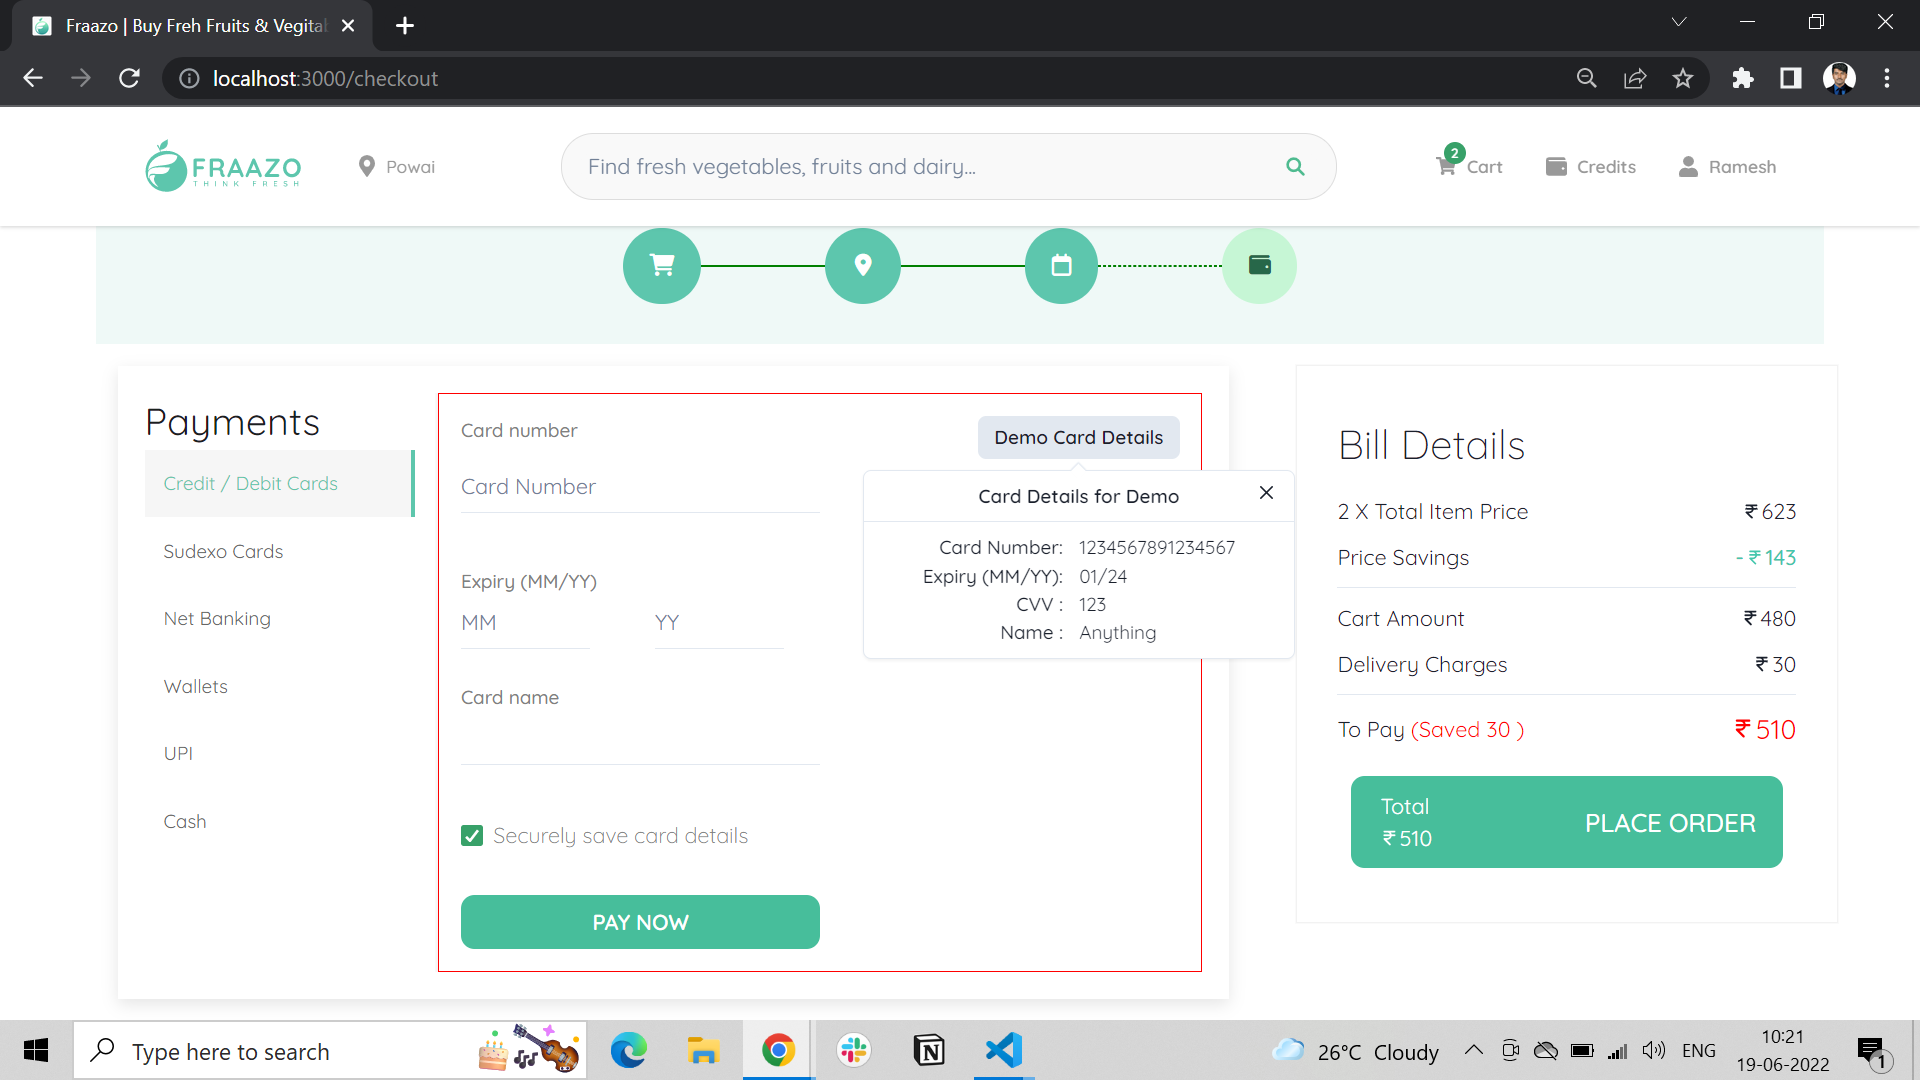
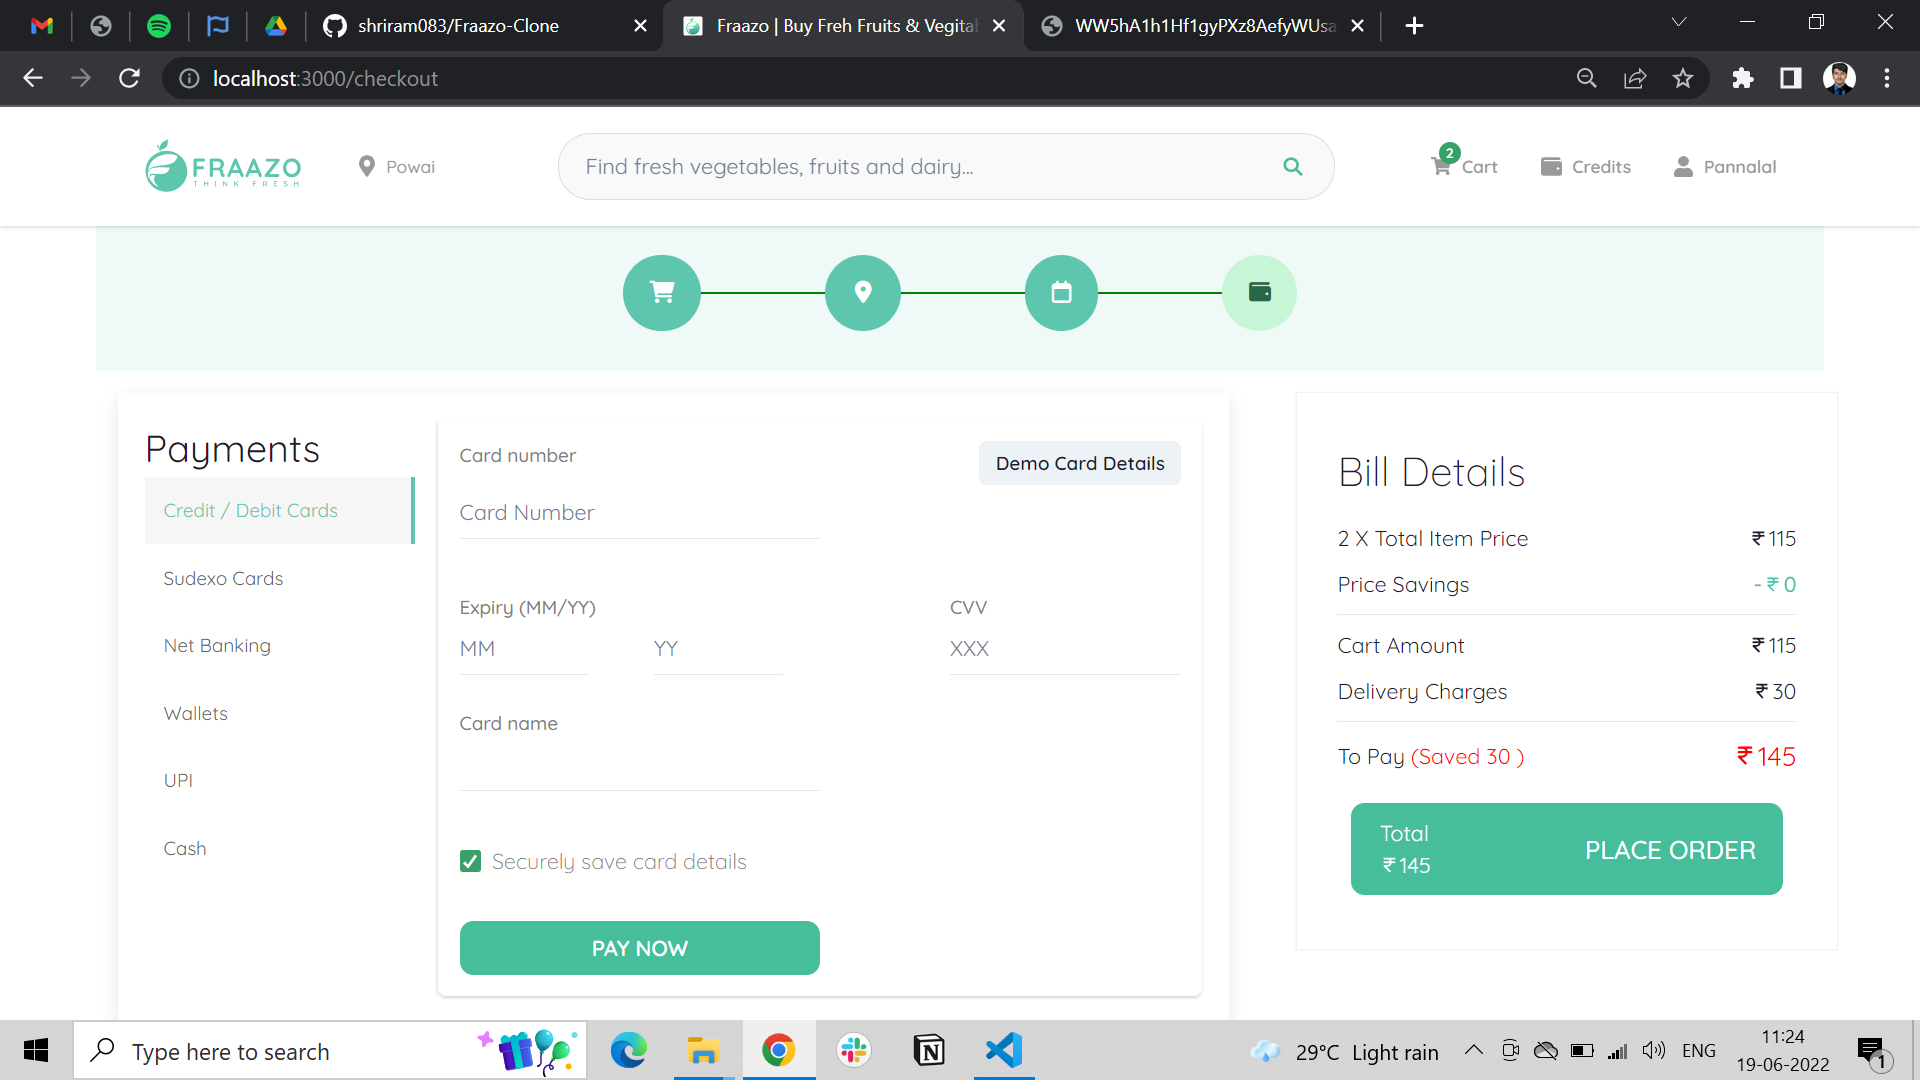
final commit

diff --git a/src/components/Payment.jsx b/src/components/Payment.jsx
@@ -53,7 +53,7 @@ const Payment = () => {
   const [cardPaymentDetails, setCardPaymentDetails] = useState(initState);
   const toast = useToast();
   //////// HANDLING ON CHANGE
-const navigate = useNavigate();
+  const navigate = useNavigate();
   const handleOnChange = (e) => {
     let { name, value } = e.target;
     //  console.log("card", name, value, name.length);
@@ -241,7 +241,7 @@ const navigate = useNavigate();
             </Tab>
           </TabList>
           <TabPanels>
-            <TabPanel width="100%" border="1px solid red">
+            <TabPanel width="100%" boxShadow={"base"} rounded="md">
               <div mb="25px">
                 <Flex justifyContent={"space-between"}>
                   <p
@@ -418,7 +418,7 @@ const navigate = useNavigate();
                 PAY NOW
               </Button>
             </TabPanel>
-            <TabPanel width="100%" border="1px solid red">
+            <TabPanel width="100%" boxShadow={"base"} rounded="md">
               <img
                 width="85rem"
                 height="30rem"
@@ -437,7 +437,7 @@ const navigate = useNavigate();
                 PAY NOW
               </Button>
             </TabPanel>
-            <TabPanel width="100%" border="1px solid red">
+            <TabPanel width="100%" boxShadow={"base"} rounded="md">
               <Select
                 style={{ border: "1px solid #5DC6AC" }}
                 placeholder="Select bank"
@@ -458,7 +458,7 @@ const navigate = useNavigate();
                 PAY NOW
               </Button>
             </TabPanel>
-            <TabPanel width="100%" border="1px solid red">
+            <TabPanel width="100%" boxShadow={"base"} rounded="md">
               <div
                 style={{
                   display: "grid",
@@ -619,7 +619,7 @@ const navigate = useNavigate();
                 PAY NOW
               </Button>
             </TabPanel>
-            <TabPanel width="100%" border="1px solid red">
+            <TabPanel width="100%" boxShadow={"base"} rounded="md">
               <div>
                 <input
                   style={{
@@ -643,7 +643,7 @@ const navigate = useNavigate();
                 PAY NOW
               </Button>
             </TabPanel>
-            <TabPanel width="100%" border="1px solid red">
+            <TabPanel width="100%" boxShadow={"base"} rounded="md">
               <div style={{ display: "flex" }}>
                 <img
[1 lines of base64/hex data omitted]

diff --git a/src/components/OrderStatus/OtpPage.jsx b/src/components/OrderStatus/OtpPage.jsx
@@ -60,7 +60,9 @@ const OtpPage = () => {
   const { isOpen, onOpen, onClose } = useDisclosure();
   const [userOtp, setUserOtp] = useState("");
   const [time, setTime] = useState(60);
-  const [loading, setLoading] = useState(loading1);
+  const [loading, setLoading] = useState(
+    "https://raw.githubusercontent.com/shriram083/Fraazo-Clone/master/src/assets/yourRequestIseBeingProcessed.gif"
+  );
   const { data: cartData } = useSelector((state) => state.cart);
   const [loadingText, setLoadingText] = useState(
     "Your request is being processed. Please do not click your browser's Back or Refresh button"
@@ -88,7 +90,9 @@ const OtpPage = () => {
       toast.closeAll();
       onOpen();
       setTimeout(() => {
-        setLoading(loading2);
+        setLoading(
+          "https://raw.githubusercontent.com/shriram083/Fraazo-Clone/master/src/assets/dotsLoading.gif"
+        );
         setLoadingText("Please do not press 'Back' or 'Refresh' button");
       }, 2000);
       setTimeout(() => {
@@ -115,7 +119,7 @@ const OtpPage = () => {
       onClose();
       browserHistory.replace("/");
       navigate("/checkout/payment-failed");
-    }, 4000);
+    }, 2000);
   };
   // window.onload = (event) => {
   //   toast.closeAll();
@@ -149,7 +153,9 @@ const OtpPage = () => {
   };
 
   const getCardNum = () => {
-    let { cardNumber } = JSON.parse(localStorage.getItem("savedPaymentDetails"));
+    let { cardNumber } = JSON.parse(
+      localStorage.getItem("savedPaymentDetails")
+    );
     // console.log("card Details:", cardNumber);
     let secureCardNum = "";
     for (let i = 0; i < cardNumber?.length; i++) {

diff --git a/src/pages/Login.jsx b/src/pages/Login.jsx
@@ -91,11 +91,11 @@ const Login = () => {
         setValid(false);
         console.log("false:");
       }
-    }else{
+    } else {
       console.log("wrong otp");
       toast({
         title: `Please Enter Correct OTP`,
-        description:"",
+        description: "",
         status: "warning",
         position: "top",
         duration: 2000,
@@ -155,6 +155,7 @@ const Login = () => {
                 {/* <FormLabel>First name</FormLabel> */}
                 <InputBar
                   ref={initialRef}
+                  maxLength={"10"}
                   placeholder="Enter Your Mobile Number"
                 />
               </FormControl>
@@ -199,7 +200,7 @@ const Login = () => {
           </ModalContent>
         ) : isAuth ? (
           <ModalContent borderRadius="20px" textAlign="center">
-            <ModalCloseButton />
+            <ModalCloseButton onClick={() => navigate("/")} />
             <ModalHeader>Welcome to Fraazo!</ModalHeader>
             <ModalBody
               p="20px"

diff --git a/src/pages/MyAccount.jsx b/src/pages/MyAccount.jsx
@@ -28,7 +28,11 @@ const LinkItems = [
   { name: "My Orders", icon: myorder, add: "myorders" },
   { name: "My Credits", icon: mycredit, add: "mycredits" },
   { name: "Invite A Friend", icon: invite, add: "invite" },
-  { name: "Help & Support", icon: support, add: "support" },
+  {
+    name: "Help & Support",
+    icon: "https://raw.githubusercontent.com/shriram083/Fraazo-Clone/284b6e2ffac46355138edb6633b44ae79b800e0d/src/assets/support.svg",
+    add: "support",
+  },
 ];
 
 export const SimpleSidebar = ({ children }) => {
@@ -121,7 +125,12 @@ const SidebarContent = ({ onClose, ...rest }) => {
         </NavItem>
       ))}
       <NavItem color={"red.500"} onClick={() => handleLogout()}>
-        <Image src={logout} mr="10px" />
+        <Image
+          src={
+            "https://raw.githubusercontent.com/shriram083/Fraazo-Clone/284b6e2ffac46355138edb6633b44ae79b800e0d/src/assets/logout.svg"
+          }
+          mr="10px"
+        />
         {"Logout"}
       </NavItem>
     </Box>
